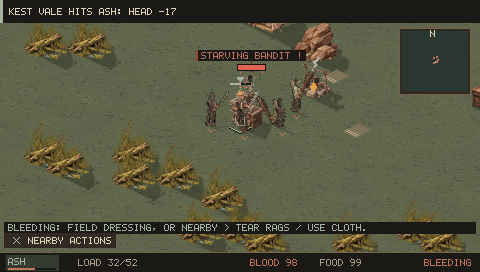
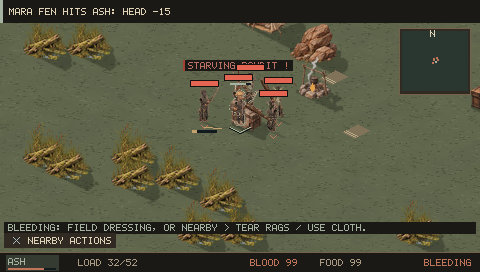
Preserve legacy outposts when adding roadside shelters [publish-only]

diff --git a/tests/test_frontier_review.c b/tests/test_frontier_review.c
@@ -31,7 +31,9 @@ static void combat(void){
  strike(1,g.selected);strike(2,g.selected);assert(g.actors[1].attackPhase==1&&g.actors[2].attackPhase==1&&g.actors[1].attackDuration>=.45f);strike(3,g.selected);assert(!g.actors[3].attackPhase);g.actors[1].attackPhase=0;strike(3,g.selected);assert(g.actors[3].attackPhase==1);
  a->health[HEAD]=species_health(a)*.2f;assert(fabsf(knockout_reserve(a)-20)<.01f);a->blood=24;assert(fabsf(knockout_reserve(a)-5)<.01f);a->blood=100;a->health[HEAD]=species_health(a);a->health[LARM]=-40;assert(knockout_reserve(a)==100);a->unconscious=30;assert(knockout_reserve(a)==0);a->unconscious=0;
  a->attackPhase=1;a->attackClock=a->attackDuration=.5f;press(KEY_SQUARE);assert(!a->autoattack&&!a->attackPhase&&a->cooldown>=.5f);
- a->health[HEAD]=100;g.actors[2].health[CHEST]=25;g.actors[2].blood=55;a->target=2;ui.feedCount=0;save("combat");shot("combat");
+ /* The controller combat fixture uses intact limbs and visible protective gear;
+    the crippled limb above belongs only to the knockout-math probe. */
+ for(int l=0;l<LIMBS;l++)a->health[l]=species_health(a);a->gear[1]=PLATE;a->gear[2]=HELM;g.actors[2].health[CHEST]=25;g.actors[2].blood=55;a->target=2;ui.feedCount=0;save("combat");shot("combat");
  puts("PASS: actual knockout thresholds, two simultaneous AI melee strikes, readable windup floor, passive cancellation with recovery cost, combat framebuffer bounds.");
 }
 static void roads(void){
@@ -60,6 +62,7 @@ static void aftermath(void){
  puts("PASS: conquest reassigns surviving guard posts and displaces civilians; relief medic actually walks to post; changes persist without respawning unique owners.");
 }
 static void migration(void){
+ assert(load_game("tests/fixtures/legacy-v01.dust"));assert(g.baseExists&&g.tech==3&&g.actors[0].gear[1]==PLATE);for(int k=0;k<6;k++){if(g.trails.bed[k])assert(g.buildings[g.trails.bed[k]-1].type==BED);else assert(g.buildingCount==MAX_BUILDINGS);}int oldBuildings=g.buildingCount;save("migrated-v01");assert(load_game("build/v150/migrated-v01.sav")&&g.buildingCount==oldBuildings);puts("PASS: v0.1 outpost retains equipment/research and existing structures; full building capacity safely omits additions; repeated reload remains valid.");
  assert(load_game("build/old-v14.sav"));int b=g.buildingCount,n=g.nodeCount;float x=g.actors[g.selected].x,y=g.actors[g.selected].y;assert(g.trails.version==1);save("migrated-v14");assert(load_game("build/v150/migrated-v14.sav"));assert(b==g.buildingCount&&n==g.nodeCount&&g.actors[g.selected].x==x&&g.actors[g.selected].y==y);int bed=g.trails.bed[0];g.trails.bed[0]=g.buildingCount+1;save("invalid-shelter");g.trails.bed[0]=bed;assert(!load_game("build/v150/invalid-shelter.sav"));assert(g.trails.bed[0]==bed);puts("PASS: genuine v14 PSP save migration, unchanged position, no duplicate shelters/supplies; invalid shelter references rejected without replacing current state.");
 }
 static void guide(void){fresh();open_help(4);shot("guide-wounds");assert(ui.helpTopic>0);press(KEY_RIGHT);assert(ui.scroll>0);shot("guide-wounds-continued");press(KEY_R);assert(ui.scroll==0&&ui.selection==5);puts("PASS: long guide chapters expose all recovery text through bounded left/right paging; chapter changes reset position.");}

diff --git a/src/game.c b/src/game.c
@@ -1754,6 +1754,9 @@ static int migrate_legacy(const LegacyGame *old) {
         return 0;
     game_new(old->seed, 0);
     *expanded = g;
+    /* Recreate v15 landmarks after merging the legacy outpost, so their
+       building references and collision exclusions use the migrated world. */
+    for(int n=0;n<expanded->actorCount;n++)if(!expanded->actors[n].squad&&npc_role(&expanded->actors[n])==ROLE_MEDIC){inventory_remove(&expanded->actors[n],MEDKIT,3);inventory_remove(&expanded->actors[n],PARTS,2);}
     world_layout(0);
     g.seed = old->seed;
     g.rng = old->rng;
@@ -1811,11 +1814,15 @@ static int migrate_legacy(const LegacyGame *old) {
     spread_frontier(&g);
     for (int i = 46; i < expanded->actorCount && g.actorCount < MAX_ACTORS; i++)
         g.actors[g.actorCount++] = expanded->actors[i];
-    for (int i = 35; i < expanded->buildingCount && g.buildingCount < MAX_BUILDINGS; i++)
-        g.buildings[g.buildingCount++] = expanded->buildings[i];
-    for (int i = 0; i < expanded->nodeCount && g.nodeCount < MAX_NODES; i++)
-        if (expanded->nodes[i].x >= 128 || expanded->nodes[i].y >= 128)
+    for (int i = 35; i < expanded->buildingCount && g.buildingCount < MAX_BUILDINGS; i++){
+        int shelter=0;for(int k=0;k<6;k++)if(expanded->trails.bed[k]==i+1)shelter=1;
+        if(!shelter)g.buildings[g.buildingCount++] = expanded->buildings[i];
+    }
+    for (int i = 0; i < expanded->nodeCount && g.nodeCount < MAX_NODES; i++){
+        int cache=0;for(int k=0;k<6;k++)if(expanded->trails.bed[k]){Building*b=&expanded->buildings[expanded->trails.bed[k]-1];if(distance(b->x,b->y,expanded->nodes[i].x,expanded->nodes[i].y)<2)cache=1;}
+        if (!cache&&(expanded->nodes[i].x >= 128 || expanded->nodes[i].y >= 128))
             g.nodes[g.nodeCount++] = expanded->nodes[i];
+    }
     free(expanded);
     memset(&g.regions,0,sizeof(g.regions));
     memset(&g.living,0,sizeof(g.living));
@@ -1824,6 +1831,7 @@ static int migrate_legacy(const LegacyGame *old) {
     memset(&g.limbs,0,sizeof(g.limbs));
     memset(&g.population,0,sizeof(g.population));
     memset(&g.life,0,sizeof(g.life));
+    memset(&g.trails,0,sizeof(g.trails));
     return validate_game(&g);
 }
 static int save_shape(uint32_t version,uint32_t size) {

diff --git a/scripts/emulator_v150.py b/scripts/emulator_v150.py
@@ -114,6 +114,7 @@ async def main():
    await load(fixture='../v150/occupied-town.sav');await e.waitframes(120);await e.shot('v150-psp-occupied-town',0)
    await load(fixture='../v150/relief-post.sav');await e.shot('v150-psp-relief-post',0)
    await load(fixture='../v150/migrated-v14.sav');await e.shot('v150-psp-migrated-save',0)
+   await load(fixture='../v150/migrated-v01.sav');await e.shot('v150-psp-migrated-v01',0)
    await menu(0,4);await expect('screen',12);await choose(4);await e.shot('v150-psp-guide-wounds',12);await key('right');await e.shot('v150-psp-guide-continued',12);await key('circle')
    e.events.append({'v150_checks':True,'manual_pass_and_bypass':True,'free_shelter_health_and_fatigue_recovery':True,'shelter_save_reload':True,'rags_consumed_bleeding_stopped_without_healing':True,'passing_medic_stabilized_player':True,'combat_and_passive_cancellation':True,'occupation_and_migrated_v14_captured':True})
    e.events.append({'completed':True,'fresh_controller_walk':True,'save_reload':True,'prepared_saves':['inn-near-npc','starving-bandits','army','elites','downed','hidden-ambush','sighting','council'],'bed_and_recovery':True,'hidden_then_triggered_ambush':True,'sighting_pin_does_not_walk':True,'council_pledge_spent_once':True})

diff --git a/docs/VALIDATION_V150.md b/docs/VALIDATION_V150.md
@@ -4,7 +4,7 @@
 
 The release gate runs validate_v080, v081, v090, v100, v110, v120, v130, v140 and v150. These include address/undefined-behavior sanitizers, equipment attachment rendering, combat/progression, captivity/rescue, crafting, limb surgery/replacements, population simulation, world-life endurance, manual map pins, council actions and save migration.
 
-The new frontier-review suite checks actual knockout thresholds, the AI melee attack window, windup duration, passive cancellation and cooldown, six usable shelters, repeat initialization, pass collision and bypasses, projectiles blocked by rocks, free rest recovery, emergency supplies consumed without healing, queued dressing save/reload, medic threat/reputation gates and supplies, clockwork rescue, physical political aftermath and a genuine v14 PSP-save migration. Long field-guide chapters are checked for bounded left/right paging and chapter resets. Renderer checks enforce the 480x272 framebuffer boundary.
+The new frontier-review suite checks actual knockout thresholds, the AI melee attack window, windup duration, passive cancellation and cooldown, six usable shelters, repeat initialization, pass collision and bypasses, projectiles blocked by rocks, free rest recovery, emergency supplies consumed without healing, queued dressing save/reload, medic threat/reputation gates and supplies, clockwork rescue, physical political aftermath and genuine v14 PSP-save migration, and the original v0.1 outpost import. The v0.1 path recreates roadside landmarks after merging old structures so bed references remain valid. The old outpost fixture already fills the building cap; additions are omitted safely rather than replacing existing structures. Long field-guide chapters are checked for bounded left/right paging and chapter resets. Renderer checks enforce the 480x272 framebuffer boundary.
 
 The existing world-life gate also runs 20 simulated minutes through full game ticks and ten game days through its endurance harness. These are simulation checks, not a human campaign playthrough.
 
@@ -23,7 +23,7 @@ Built with pinned PSPDEV v20261101. The EBOOT passes package validation. `eviden
 - Destroying actual worn rags to stop bleeding without restoring health.
 - A passing medic stabilizing the unconscious player.
 - Enemy combat cues, passive cancellation and manual retreat.
-- Occupied settlement, relief post, migrated v14 save and both pages of the recovery guide.
+- Occupied settlement, relief post, migrated v14 and v0.1 saves and both pages of the recovery guide.
 
 Results and completed-frame images are included in the screenshots release archive. Screenshot review prompted stronger enemy-bar contrast and a shorter dressing label before the final run.
 

diff --git a/docs/CONTENT_V150.md b/docs/CONTENT_V150.md
@@ -27,7 +27,7 @@ Six persistent sites lie along these links:
 | Reed Crossing to Cinder Port | Rock pass and wayfarer bed |
 | Shogun's Rest to Dusk Ferry | Rock pass and wayfarer bed |
 
-Each pass has four rock formations. Their collision also blocks projectiles. Central lanes and outer bypasses remain open. Old saved characters and structures near proposed rocks cause those formations to be omitted permanently. Six free beds sit off the routes with two dressings, two rations and two machine parts each. These are finite loot nodes, not renewable supply generators.
+Each pass has four rock formations. Their collision also blocks projectiles. Central lanes and outer bypasses remain open. Old saved characters and structures near proposed rocks cause those formations to be omitted permanently. Where existing world space and building capacity permit, six free beds sit off the routes with two dressings, two rations and two machine parts each. These are finite loot nodes, not renewable supply generators.
 
 Approaching a shelter records it. When injured or exhausted, the HUD can show distance/direction to the nearest known shelter. No waypoint causes movement. These six authored landmarks supplement the existing rivers, fords, terrain regions and eighty persistent encounter groups; they are not a replacement of the entire world map.
 
